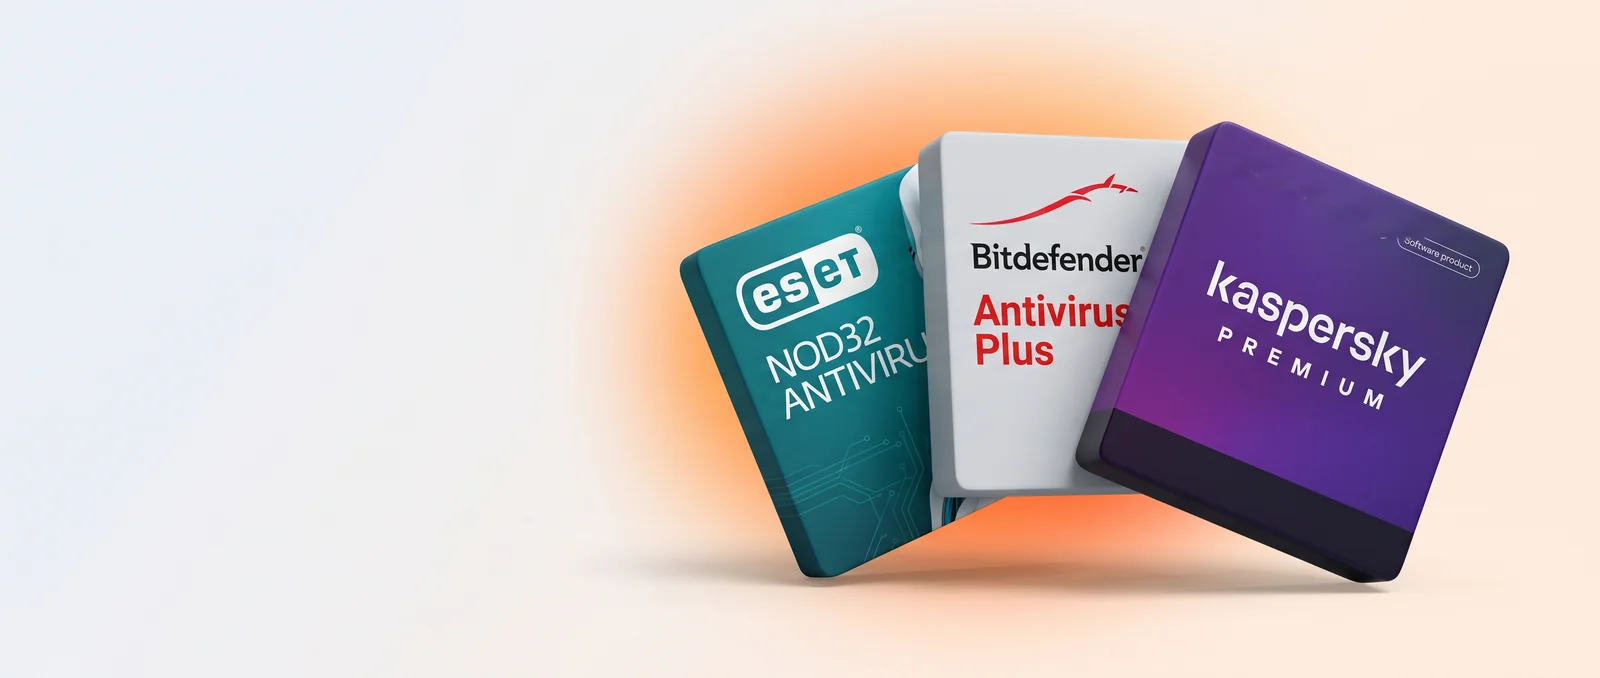
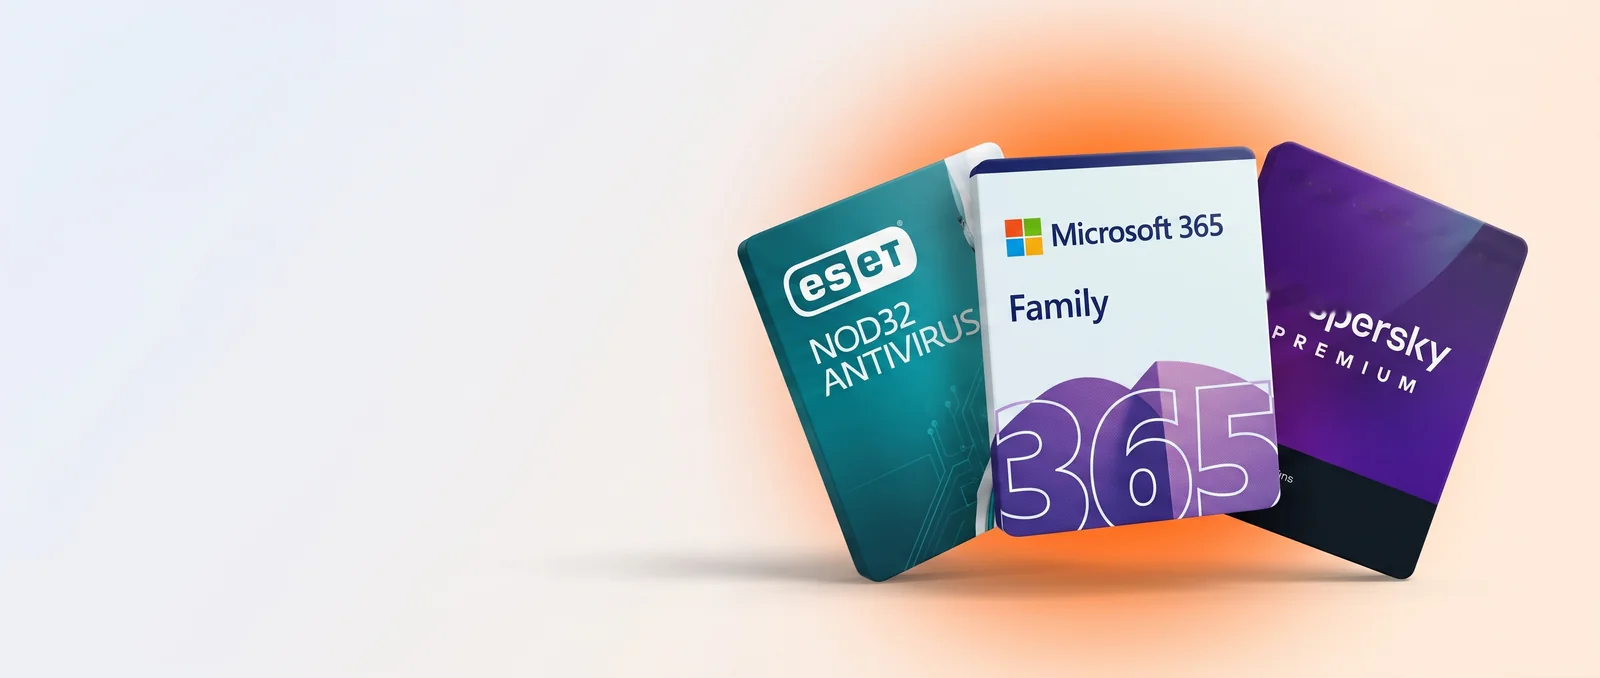
Aggiorna hero: Bitdefender -> Microsoft 365 Family
Sostituita la seconda box del collage hero (Bitdefender -> Microsoft
365 Family) con una nuova immagine Gemini generata dal prompt
aggiornato, su richiesta dell'utente.

Anche qui i 3 badge sul box Kaspersky erano generati con testo
illeggibile ("Kachasmiess", "Premium prohasa", "Cotlaod protince").
Rimossi con la stessa tecnica di inpainting mirato (silhouette del
box ricostruita chiudendo morfologicamente l'area a saturazione
viola, cosi' la maschera del testo bianco da rimuovere resta sempre
dentro il box e non tocca mai lo sfondo).

Stessa pipeline: resize 1600x678, export ai 3 breakpoint (WebP+AVIF),
nessuna modifica al markup, ?v= rigenerati. Verificato desktop e
mobile (375px).

diff --git a/de/index.html b/de/index.html
@@ -313,9 +313,9 @@
     <main id="main" class="home-page">
         <section class="home-hero home-hero--consumer" aria-labelledby="home-hero-title">
             <picture class="home-hero__bg">
-                <source type="image/avif" srcset="../asset/media/home-hero-bg-800.avif?v=a02dded1b4 800w, ../asset/media/home-hero-bg-1200.avif?v=3ed6fa84ce 1200w, ../asset/media/home-hero-bg-1600.avif?v=d4b5046b44 1600w" sizes="100vw">
-                <source type="image/webp" srcset="../asset/media/home-hero-bg-800.webp?v=d9309a3865 800w, ../asset/media/home-hero-bg-1200.webp?v=dee87684bb 1200w, ../asset/media/home-hero-bg-1600.webp?v=e527849c94 1600w" sizes="100vw">
-                <img src="../asset/media/home-hero-bg-1600.webp?v=e527849c94" width="1600" height="678" alt="" fetchpriority="high" decoding="async">
+                <source type="image/avif" srcset="../asset/media/home-hero-bg-800.avif?v=23ab80f0db 800w, ../asset/media/home-hero-bg-1200.avif?v=89c3a7ecbc 1200w, ../asset/media/home-hero-bg-1600.avif?v=b12e42ce45 1600w" sizes="100vw">
+                <source type="image/webp" srcset="../asset/media/home-hero-bg-800.webp?v=5f8a9040f6 800w, ../asset/media/home-hero-bg-1200.webp?v=aafff9137d 1200w, ../asset/media/home-hero-bg-1600.webp?v=1f297985fb 1600w" sizes="100vw">
+                <img src="../asset/media/home-hero-bg-1600.webp?v=1f297985fb" width="1600" height="678" alt="" fetchpriority="high" decoding="async">
             </picture>
             <div class="home-hero-inner">
                 <div class="home-hero-content">

diff --git a/en/index.html b/en/index.html
@@ -314,9 +314,9 @@
     <main id="main" class="home-page">
         <section class="home-hero home-hero--consumer" aria-labelledby="home-hero-title">
             <picture class="home-hero__bg">
-                <source type="image/avif" srcset="../asset/media/home-hero-bg-800.avif?v=a02dded1b4 800w, ../asset/media/home-hero-bg-1200.avif?v=3ed6fa84ce 1200w, ../asset/media/home-hero-bg-1600.avif?v=d4b5046b44 1600w" sizes="100vw">
-                <source type="image/webp" srcset="../asset/media/home-hero-bg-800.webp?v=d9309a3865 800w, ../asset/media/home-hero-bg-1200.webp?v=dee87684bb 1200w, ../asset/media/home-hero-bg-1600.webp?v=e527849c94 1600w" sizes="100vw">
-                <img src="../asset/media/home-hero-bg-1600.webp?v=e527849c94" width="1600" height="678" alt="" fetchpriority="high" decoding="async">
+                <source type="image/avif" srcset="../asset/media/home-hero-bg-800.avif?v=23ab80f0db 800w, ../asset/media/home-hero-bg-1200.avif?v=89c3a7ecbc 1200w, ../asset/media/home-hero-bg-1600.avif?v=b12e42ce45 1600w" sizes="100vw">
+                <source type="image/webp" srcset="../asset/media/home-hero-bg-800.webp?v=5f8a9040f6 800w, ../asset/media/home-hero-bg-1200.webp?v=aafff9137d 1200w, ../asset/media/home-hero-bg-1600.webp?v=1f297985fb 1600w" sizes="100vw">
+                <img src="../asset/media/home-hero-bg-1600.webp?v=1f297985fb" width="1600" height="678" alt="" fetchpriority="high" decoding="async">
             </picture>
             <div class="home-hero-inner">
                 <div class="home-hero-content">

diff --git a/es/index.html b/es/index.html
@@ -314,9 +314,9 @@
     <main id="main" class="home-page">
         <section class="home-hero home-hero--consumer" aria-labelledby="home-hero-title">
             <picture class="home-hero__bg">
-                <source type="image/avif" srcset="../asset/media/home-hero-bg-800.avif?v=a02dded1b4 800w, ../asset/media/home-hero-bg-1200.avif?v=3ed6fa84ce 1200w, ../asset/media/home-hero-bg-1600.avif?v=d4b5046b44 1600w" sizes="100vw">
-                <source type="image/webp" srcset="../asset/media/home-hero-bg-800.webp?v=d9309a3865 800w, ../asset/media/home-hero-bg-1200.webp?v=dee87684bb 1200w, ../asset/media/home-hero-bg-1600.webp?v=e527849c94 1600w" sizes="100vw">
-                <img src="../asset/media/home-hero-bg-1600.webp?v=e527849c94" width="1600" height="678" alt="" fetchpriority="high" decoding="async">
+                <source type="image/avif" srcset="../asset/media/home-hero-bg-800.avif?v=23ab80f0db 800w, ../asset/media/home-hero-bg-1200.avif?v=89c3a7ecbc 1200w, ../asset/media/home-hero-bg-1600.avif?v=b12e42ce45 1600w" sizes="100vw">
+                <source type="image/webp" srcset="../asset/media/home-hero-bg-800.webp?v=5f8a9040f6 800w, ../asset/media/home-hero-bg-1200.webp?v=aafff9137d 1200w, ../asset/media/home-hero-bg-1600.webp?v=1f297985fb 1600w" sizes="100vw">
+                <img src="../asset/media/home-hero-bg-1600.webp?v=1f297985fb" width="1600" height="678" alt="" fetchpriority="high" decoding="async">
             </picture>
             <div class="home-hero-inner">
                 <div class="home-hero-content">

diff --git a/fr/index.html b/fr/index.html
@@ -313,9 +313,9 @@
     <main id="main" class="home-page">
         <section class="home-hero home-hero--consumer" aria-labelledby="home-hero-title">
             <picture class="home-hero__bg">
-                <source type="image/avif" srcset="../asset/media/home-hero-bg-800.avif?v=a02dded1b4 800w, ../asset/media/home-hero-bg-1200.avif?v=3ed6fa84ce 1200w, ../asset/media/home-hero-bg-1600.avif?v=d4b5046b44 1600w" sizes="100vw">
-                <source type="image/webp" srcset="../asset/media/home-hero-bg-800.webp?v=d9309a3865 800w, ../asset/media/home-hero-bg-1200.webp?v=dee87684bb 1200w, ../asset/media/home-hero-bg-1600.webp?v=e527849c94 1600w" sizes="100vw">
-                <img src="../asset/media/home-hero-bg-1600.webp?v=e527849c94" width="1600" height="678" alt="" fetchpriority="high" decoding="async">
+                <source type="image/avif" srcset="../asset/media/home-hero-bg-800.avif?v=23ab80f0db 800w, ../asset/media/home-hero-bg-1200.avif?v=89c3a7ecbc 1200w, ../asset/media/home-hero-bg-1600.avif?v=b12e42ce45 1600w" sizes="100vw">
+                <source type="image/webp" srcset="../asset/media/home-hero-bg-800.webp?v=5f8a9040f6 800w, ../asset/media/home-hero-bg-1200.webp?v=aafff9137d 1200w, ../asset/media/home-hero-bg-1600.webp?v=1f297985fb 1600w" sizes="100vw">
+                <img src="../asset/media/home-hero-bg-1600.webp?v=1f297985fb" width="1600" height="678" alt="" fetchpriority="high" decoding="async">
             </picture>
             <div class="home-hero-inner">
                 <div class="home-hero-content">

diff --git a/it/index.html b/it/index.html
@@ -314,9 +314,9 @@
     <main id="main" class="home-page">
         <section class="home-hero home-hero--consumer" aria-labelledby="home-hero-title">
             <picture class="home-hero__bg">
-                <source type="image/avif" srcset="../asset/media/home-hero-bg-800.avif?v=a02dded1b4 800w, ../asset/media/home-hero-bg-1200.avif?v=3ed6fa84ce 1200w, ../asset/media/home-hero-bg-1600.avif?v=d4b5046b44 1600w" sizes="100vw">
-                <source type="image/webp" srcset="../asset/media/home-hero-bg-800.webp?v=d9309a3865 800w, ../asset/media/home-hero-bg-1200.webp?v=dee87684bb 1200w, ../asset/media/home-hero-bg-1600.webp?v=e527849c94 1600w" sizes="100vw">
-                <img src="../asset/media/home-hero-bg-1600.webp?v=e527849c94" width="1600" height="678" alt="" fetchpriority="high" decoding="async">
+                <source type="image/avif" srcset="../asset/media/home-hero-bg-800.avif?v=23ab80f0db 800w, ../asset/media/home-hero-bg-1200.avif?v=89c3a7ecbc 1200w, ../asset/media/home-hero-bg-1600.avif?v=b12e42ce45 1600w" sizes="100vw">
+                <source type="image/webp" srcset="../asset/media/home-hero-bg-800.webp?v=5f8a9040f6 800w, ../asset/media/home-hero-bg-1200.webp?v=aafff9137d 1200w, ../asset/media/home-hero-bg-1600.webp?v=1f297985fb 1600w" sizes="100vw">
+                <img src="../asset/media/home-hero-bg-1600.webp?v=1f297985fb" width="1600" height="678" alt="" fetchpriority="high" decoding="async">
             </picture>
             <div class="home-hero-inner">
                 <div class="home-hero-content">

diff --git a/nl/index.html b/nl/index.html
@@ -314,9 +314,9 @@
     <main id="main" class="home-page">
         <section class="home-hero home-hero--consumer" aria-labelledby="home-hero-title">
             <picture class="home-hero__bg">
-                <source type="image/avif" srcset="../asset/media/home-hero-bg-800.avif?v=a02dded1b4 800w, ../asset/media/home-hero-bg-1200.avif?v=3ed6fa84ce 1200w, ../asset/media/home-hero-bg-1600.avif?v=d4b5046b44 1600w" sizes="100vw">
-                <source type="image/webp" srcset="../asset/media/home-hero-bg-800.webp?v=d9309a3865 800w, ../asset/media/home-hero-bg-1200.webp?v=dee87684bb 1200w, ../asset/media/home-hero-bg-1600.webp?v=e527849c94 1600w" sizes="100vw">
-                <img src="../asset/media/home-hero-bg-1600.webp?v=e527849c94" width="1600" height="678" alt="" fetchpriority="high" decoding="async">
+                <source type="image/avif" srcset="../asset/media/home-hero-bg-800.avif?v=23ab80f0db 800w, ../asset/media/home-hero-bg-1200.avif?v=89c3a7ecbc 1200w, ../asset/media/home-hero-bg-1600.avif?v=b12e42ce45 1600w" sizes="100vw">
+                <source type="image/webp" srcset="../asset/media/home-hero-bg-800.webp?v=5f8a9040f6 800w, ../asset/media/home-hero-bg-1200.webp?v=aafff9137d 1200w, ../asset/media/home-hero-bg-1600.webp?v=1f297985fb 1600w" sizes="100vw">
+                <img src="../asset/media/home-hero-bg-1600.webp?v=1f297985fb" width="1600" height="678" alt="" fetchpriority="high" decoding="async">
             </picture>
             <div class="home-hero-inner">
                 <div class="home-hero-content">

diff --git a/pt/index.html b/pt/index.html
@@ -312,9 +312,9 @@
     <main id="main" class="home-page">
         <section class="home-hero home-hero--consumer" aria-labelledby="home-hero-title">
             <picture class="home-hero__bg">
-                <source type="image/avif" srcset="../asset/media/home-hero-bg-800.avif?v=a02dded1b4 800w, ../asset/media/home-hero-bg-1200.avif?v=3ed6fa84ce 1200w, ../asset/media/home-hero-bg-1600.avif?v=d4b5046b44 1600w" sizes="100vw">
-                <source type="image/webp" srcset="../asset/media/home-hero-bg-800.webp?v=d9309a3865 800w, ../asset/media/home-hero-bg-1200.webp?v=dee87684bb 1200w, ../asset/media/home-hero-bg-1600.webp?v=e527849c94 1600w" sizes="100vw">
-                <img src="../asset/media/home-hero-bg-1600.webp?v=e527849c94" width="1600" height="678" alt="" fetchpriority="high" decoding="async">
+                <source type="image/avif" srcset="../asset/media/home-hero-bg-800.avif?v=23ab80f0db 800w, ../asset/media/home-hero-bg-1200.avif?v=89c3a7ecbc 1200w, ../asset/media/home-hero-bg-1600.avif?v=b12e42ce45 1600w" sizes="100vw">
+                <source type="image/webp" srcset="../asset/media/home-hero-bg-800.webp?v=5f8a9040f6 800w, ../asset/media/home-hero-bg-1200.webp?v=aafff9137d 1200w, ../asset/media/home-hero-bg-1600.webp?v=1f297985fb 1600w" sizes="100vw">
+                <img src="../asset/media/home-hero-bg-1600.webp?v=1f297985fb" width="1600" height="678" alt="" fetchpriority="high" decoding="async">
             </picture>
             <div class="home-hero-inner">
                 <div class="home-hero-content">
